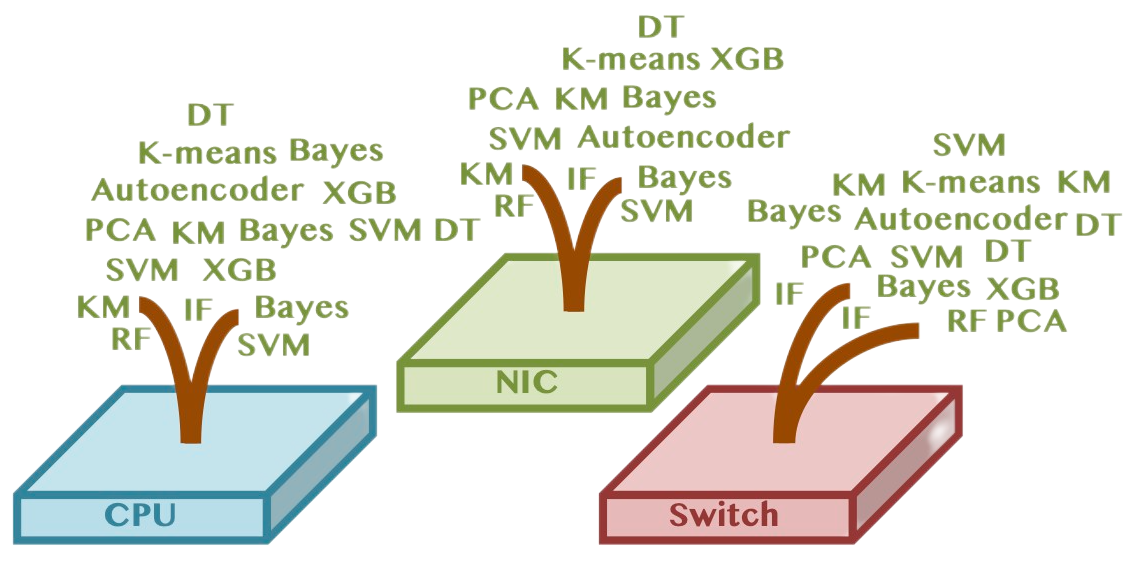
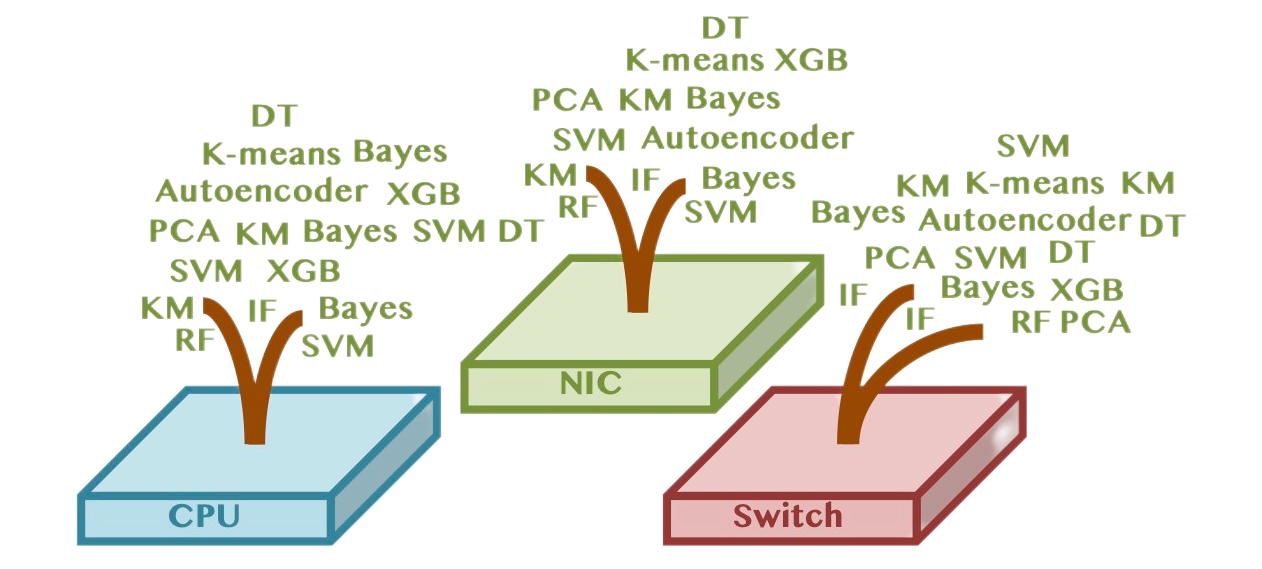
update & fix bug

Changed region(s): [[0.0, 0.0302, 0.9825, 0.968], [0.7675, 0.2117, 0.8904, 0.2722]]

diff --git a/index.html b/index.html
@@ -130,7 +130,7 @@
             <td style="padding:20px;width:75%;vertical-align:middle">
                 <papertitle>CStar Gateway</papertitle> and <papertitle>Bifrost</papertitle> are accepted by NSDI 2026.
               <br>
-              <em>23rd USENIX Symposium on Networked Systems Design and Implementation (NSDI '26)</em>
+              <em>The 23rd USENIX Symposium on Networked Systems Design and Implementation (NSDI '26)</em>
               <br>
               [Acceptance Rate: 100/452=22.1%] [CCF A]
               <br>
@@ -153,12 +153,12 @@
               <br>
               Kaiyi Zhang, <u>Changgang Zheng</u>, Nancy Samaan, Ahmed Karmouch, and <a href="https://eng.ox.ac.uk/people/noa-zilberman/">Noa Zilberman</a>
               <br>
-              <em>IEEE HPSR 2025</em> [CCF B] [<em style="color:#FF0000";>Best Paper Award</em>]
+              <em>The 26th IEEE International Conference on High Performance Switching and Routing (HPSR 2025)</em> [CCF B] [<em style="color:#FF0000";>Best Paper Award</em>]
               <br>
               <a href="papers/p26-zhang.pdf">Paper</a> |
               <a href="https://doi.org/10.1109/HPSR64165.2025.11038854">Link</a> |
               <a href="data/zhang2025muta.txt">BibTex</a>
-              <p>We introduce MUTA, a novel in-network multi-task learning solution. MUTA enables executing multiple inference tasks concurrently in the data-plane, without exhausting available resources. </p>
+              <!-- <p>We introduce MUTA, a novel in-network multi-task learning solution. MUTA enables executing multiple inference tasks concurrently in the data-plane, without exhausting available resources. </p> -->
             </td>
           </tr>
 

diff --git a/publications.html b/publications.html
@@ -782,7 +782,7 @@
                 <br>
                 <em>Journal of Cancer Research and Therapeutics, 2019</em>
                 <br>
-                <a href="papers/Relationship between the maximum standardized uptake value of fluoro‐2‐deoxyglucose‐positron emission tomography computed tomography and clinicopathological characteristics in tongue squamous cell carcinoma.pdf">Paper</a> |
+                <a href="papers/Relationship between the maximum standardized uptake value of fluoro‐2‐deoxyglucose‐positron etc.pdf">Paper</a> |
                 <a href="data/zheng2019relationship.txt">BibTex</a>
                 <p>Tongue carcinoma is one of the most common oral and maxillofacial malignant tumors worldwide, maximum standardized uptake value has been widely used in cancer research. This study aims at investigating the relationship between them and whether SUV parameters can predict lymph node metastasis.</p>
               </td>
